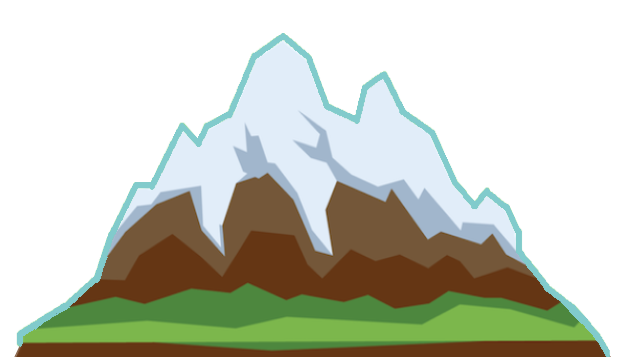
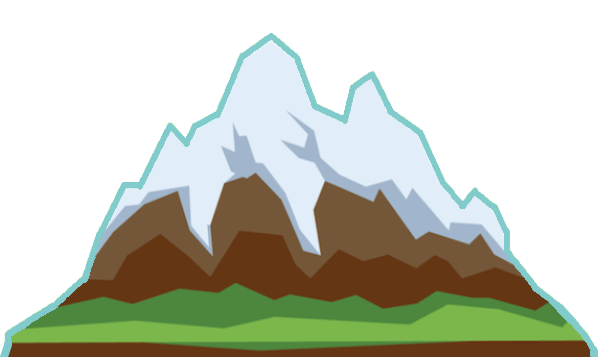
CSS and Image
Updated CSS file:
.mountain-div {
  position: relative;
  width: 598px;
  height: 357px;
  margin: auto;
}

Re-sized both mountain images to match at the base width

diff --git a/css/styles.css b/css/styles.css
@@ -23,6 +23,7 @@ h2 {
   color: #66BFBF;
   font-family: 'Montserrat', sans-serif;
   font-size: 2.5rem;
+  padding-bottom: 10px;
 }
 
 h3 {
@@ -101,8 +102,8 @@ hr {
 /* Mountain Hover Configurations */
 .mountain-div {
   position: relative;
-  width: 624px;
-  height: 351px;
+  width: 598px;
+  height: 357px;
   margin: auto;
 }
 
@@ -121,7 +122,7 @@ hr {
 /* MIDDLE SECTION */
 .middle-container {
   background-color: #EAFAF7;
-  padding: 70px 0;
+  padding: 100px 0;
 }
 
 .profile {
